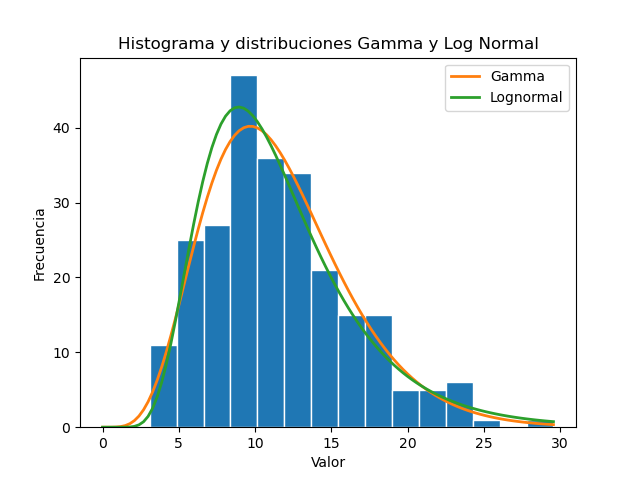
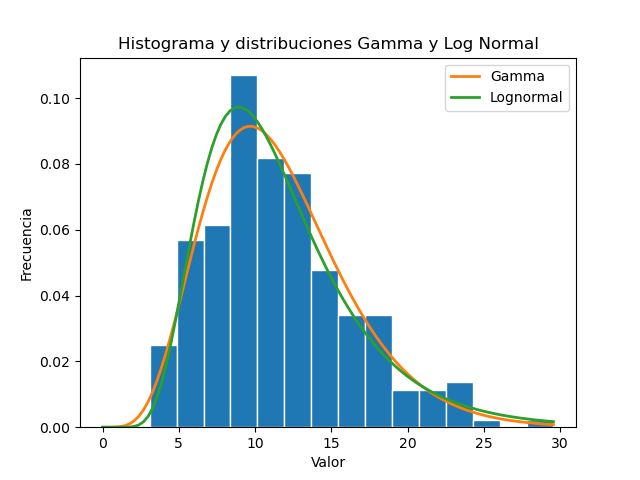
histogram with proportions instead of number of values in the y axis

diff --git a/src/estimations.py b/src/estimations.py
@@ -31,27 +31,22 @@ def estimate_gamma(data):
 
 def plot_histogram_with_distr(values):
     # Create the histogram
-    n, bins, patches = plt.hist(values, bins='auto', edgecolor='white')
+    n, bins, patches = plt.hist(values, density=True, bins='auto', edgecolor='white')
 
     # Calculate the bin widths
     bin_widths = bins[1:] - bins[:-1]
-
-    # Calculate the area under the histogram bars
-    histogram_area = np.sum(n * bin_widths)
 
     # Overlay gamma distribution
     a, b = estimate_gamma(values)
     x = np.linspace(0, max(values), 100)
     pdf = gamma.pdf(x, a, loc=0, scale=b)
-    pdf_scaled = pdf * histogram_area  # Scale the PDF to match histogram frequency
-    plt.plot(x, pdf_scaled, lw=2, label='Gamma')
+    plt.plot(x, pdf, lw=2, label='Gamma')
 
     # Overlay lognormal distribution
     u, sigma = estimate_log_normal(values)
     x = np.linspace(0, max(values), 100)
     pdf = lognorm.pdf(x, s=sigma, loc=0, scale=np.exp(u))
-    pdf_scaled = pdf * histogram_area  # Scale the PDF to match histogram frequency
-    plt.plot(x, pdf_scaled, lw=2, label='Lognormal')
+    plt.plot(x, pdf, lw=2, label='Lognormal')
 
     # Set plot properties
     plt.xlabel('Valor')

diff --git a/src/histogram.py b/src/histogram.py
@@ -5,7 +5,7 @@ from parse_sample import parse_sample
 
 def plot_histogram(values):
     # Create the histogram
-    plt.hist(values, bins='auto',  edgecolor='white')
+    plt.hist(values, bins='auto',  density=True, edgecolor='white')
 
     # Set plot properties
     plt.xlabel('Valor')
